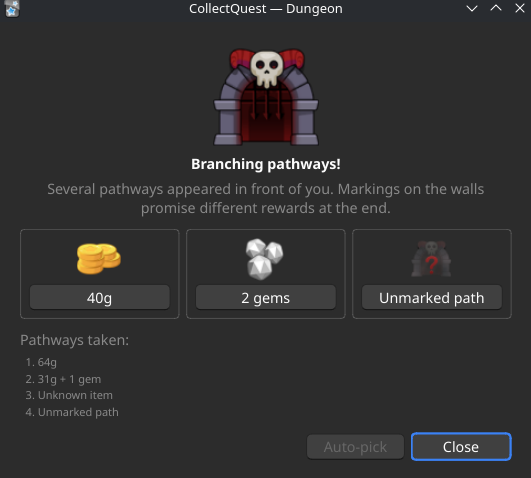
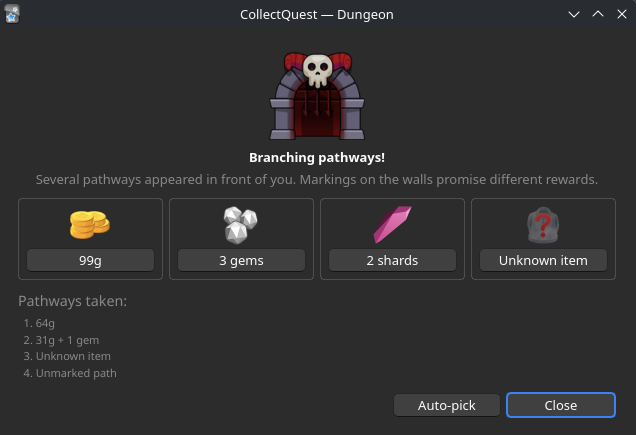
Change Dungeon window layout when no dungeon is active, update dungeon pathways screenshot

diff --git a/src/ui/dungeon.py b/src/ui/dungeon.py
@@ -9,9 +9,12 @@ from aqt.qt import (
     QCheckBox,
     QDialog,
     QHBoxLayout,
+    QImage,
     QLabel,
     QListWidget,
     QListWidgetItem,
+    QPainter,
+    QPixmap,
     QPushButton,
     QRadioButton,
     QTimer,
@@ -31,12 +34,18 @@ from .constants import (
     _MUTED_STAT_STYLE,
     _PATH_CELL_BORDER_DARK,
     _PATH_CELL_BORDER_LIGHT,
+    _SEPARATOR_COLOR,
 )
 
 # The window's own icon, at the size the milestones window heads itself with. dungeon.png is
 # 82x78 and would be upscaled here; this one has the headroom.
 _HEADER_ICON = "ui/dungeon_window.png"
 _HEADER_ICON_PX = 96
+# Between dungeons the header icon is drawn gray at this opacity, so it can't pass for an open one.
+_DORMANT_ICON_OPACITY = 0.55
+# Around the line that sets the last dungeon's result apart from the search.
+_DIVIDER_LEAD = 12
+_DIVIDER_TRAIL = 4
 _TREASURE_ICON = "dungeon/treasure_chest.png"
 _SCRAMBLER_ICON = "dungeon/gem_scrambler.png"
 _PATH_ICON_PX = 40
@@ -154,10 +163,34 @@ def _muted(text: str, center: bool = False, wrap: bool = True) -> QLabel:
     return lbl
 
 
-def _centered_icon(image: str, size: int = _HEADER_ICON_PX) -> QLabel | None:
+def _dormant(pm: QPixmap) -> QPixmap:
+    """`pm` drained of color and dimmed, its transparency kept."""
+    src = pm.toImage().convertToFormat(QImage.Format.Format_ARGB32)
+    gray = src.convertToFormat(QImage.Format.Format_Grayscale8).convertToFormat(
+        QImage.Format.Format_ARGB32
+    )
+    gray.setAlphaChannel(src.convertToFormat(QImage.Format.Format_Alpha8))
+    out = QPixmap(pm.size())
+    out.setDevicePixelRatio(pm.devicePixelRatio())
+    out.fill(Qt.GlobalColor.transparent)
+    painter = QPainter(out)
+    try:
+        painter.setOpacity(_DORMANT_ICON_OPACITY)
+        painter.drawImage(0, 0, gray)
+    finally:
+        painter.end()
+    return out
+
+
+def _centered_icon(image: str, size: int = _HEADER_ICON_PX, dormant: bool = False) -> QLabel | None:
     pm = _icon_pixmap(image, size, content=size)
     if not pm:
         return None
+    if dormant:
+        try:
+            pm = _dormant(pm)
+        except Exception:
+            pass  # the colored icon beats no window, as _icon_pixmap degrades too
     lbl = QLabel()
     lbl.setPixmap(pm)
     lbl.setAlignment(Qt.AlignmentFlag.AlignCenter)
@@ -498,9 +531,10 @@ def _add_pick_log(layout: QVBoxLayout, data: dict[str, Any]) -> None:
 
 
 def _add_idle(layout: QVBoxLayout, data: dict[str, Any]) -> None:
-    """No dungeon open: the last one's result, or the search a player who has none is still on."""
+    """No dungeon open: the search for the next entrance, then the last dungeon's result beneath a
+    divider, so it can't be read as a dungeon still underway."""
     last = data.get("last_dungeon")
-    icon = _centered_icon(_HEADER_ICON)
+    icon = _centered_icon(_HEADER_ICON, dormant=True)
     if icon:
         layout.addWidget(icon)
     # Answers spent searching, and what they have bought. Only counted above level 15, so the
@@ -508,7 +542,7 @@ def _add_idle(layout: QVBoxLayout, data: dict[str, Any]) -> None:
     searched = dungeon_mod.search_reviews(data)
     has_last = isinstance(last, dict)
     if has_last:
-        layout.addWidget(_title("Last dungeon"))
+        layout.addWidget(_title("Review more cards to find the next dungeon."))
         text = f"{_cards(searched)} answered since completing the last dungeon."
     else:
         layout.addWidget(_title("No dungeon discovered yet."))
@@ -521,9 +555,17 @@ def _add_idle(layout: QVBoxLayout, data: dict[str, Any]) -> None:
     )
     if not has_last:
         return
-    # The loot is its own group, and the bonus block above it is lifted off the line before it:
-    # without the same lift here the loot line reads as one more row of that block.
-    layout.addSpacing(_BLOCK_LEAD)
+    layout.addSpacing(_DIVIDER_LEAD)
+    divider = QFrame()
+    divider.setFrameShape(QFrame.Shape.HLine)
+    divider.setFixedHeight(1)
+    # Pinned, since the default shading is a hard line in dark mode.
+    divider.setStyleSheet(f"QFrame {{ border: none; background-color: {_SEPARATOR_COLOR}; }}")
+    layout.addWidget(divider)
+    layout.addSpacing(_DIVIDER_TRAIL)
+    heading = QLabel("Last dungeon")
+    heading.setStyleSheet("font-weight: bold;")
+    layout.addWidget(heading)
     item_quality = int(last.get("item_quality") or 0)
     _add_loot(
         layout, int(last.get("gold") or 0), int(last.get("gems") or 0), last.get("item"),

diff --git a/tests/dungeon/test_dungeon_ui.py b/tests/dungeon/test_dungeon_ui.py
@@ -133,6 +133,10 @@ use(fresh(last_dungeon={"branchings": 4, "gold": 180, "gems": 3, "item": "mushro
 _, texts = build("idle, last dungeon", lambda l: ui_dungeon.build_dungeon_content(l, noop))
 if not any("Mushroom" in t for t in texts):
     FAILS.append("last dungeon does not name its item")
+# The search leads; the finished dungeon sits under its own heading below it.
+lead, last = "Review more cards to find the next dungeon.", "Last dungeon"
+if lead not in texts or last not in texts or texts.index(lead) > texts.index(last):
+    FAILS.append("idle window does not lead with the search")
 
 d = fresh()
 d["dungeon"] = dungeon._new_dungeon()
@@ -270,7 +274,20 @@ for label, state, want in (
     # The header is the first pixmap in the layout, above everything else the state draws.
     pixmaps = [x for x in holder.findChildren(QtWidgets.QLabel) if x.pixmap() and not x.pixmap().isNull()]
     expected = assets._icon_pixmap(want, ui_dungeon._HEADER_ICON_PX, content=ui_dungeon._HEADER_ICON_PX)
-    ok = bool(pixmaps) and pixmaps[0].pixmap().toImage() == expected.toImage()
+    if label == "idle":
+        # Between dungeons the archway is drawn gray and dimmed, so it can't pass for an open one.
+        img = pixmaps[0].pixmap().toImage() if pixmaps else None
+        colored = expected.toImage()
+        seen = [
+            (img.pixelColor(x, y), colored.pixelColor(x, y))
+            for y in range(img.height()) for x in range(img.width())
+            if colored.pixelColor(x, y).alpha() == 255
+        ] if img is not None and img.size() == colored.size() else []
+        ok = bool(seen) and all(
+            c.red() == c.green() == c.blue() and c.alpha() < 255 for c, _ in seen
+        ) and any(o.red() != o.blue() for _, o in seen)
+    else:
+        ok = bool(pixmaps) and pixmaps[0].pixmap().toImage() == expected.toImage()
     print(f"  {'ok  ' if ok else 'FAIL'} {label}: heads with {want}")
     if not ok:
         FAILS.append(f"header icon missing in the {label} state")

diff --git a/src/ui/progress.py b/src/ui/progress.py
@@ -16,7 +16,7 @@ from aqt.qt import (
 from .. import due_baseline, dungeon as dungeon_mod, milestones, prestige as prestige_mod, quests, review_rewards, shop as shop_mod, stats as stats_mod, storage, streak as streak_mod, xp
 from .options import show_options_dialog
 from .assets import _house_pixmap, equalize_button_widths, section_header, house_image_count, house_index_for_level, next_house_goal_level
-from .constants import _COLLECTQUEST_PANEL_WIDTH, _DIALOG_BUTTON_MIN_WIDTH, _DIALOG_CONTENT_MARGINS, _MARK_ACTIVE_IMAGE, _MUTED_STAT_STYLE, _POPUP_PROGRESS_DIALOG_WIDTH, _QUEST_BONUS_SEPARATOR_TOP_PAD, _QUEST_BONUS_SEPARATOR_WIDTH
+from .constants import _COLLECTQUEST_PANEL_WIDTH, _DIALOG_BUTTON_MIN_WIDTH, _DIALOG_CONTENT_MARGINS, _MARK_ACTIVE_IMAGE, _MUTED_STAT_STYLE, _POPUP_PROGRESS_DIALOG_WIDTH, _QUEST_BONUS_SEPARATOR_TOP_PAD, _QUEST_BONUS_SEPARATOR_WIDTH, _SEPARATOR_COLOR
 from .items import add_stats_rows
 from .prestige import show_prestige_dialog
 from .statusbar import _streak_display_filled, _streak_squares_widget
@@ -533,8 +533,8 @@ def _add_cleared_bonus_row(container_layout, container: QWidget, data: dict, own
     bonus_sep.setFixedHeight(1)
     # Color pinned, since the default shading is a hard dark line in dark mode; indented like the rows.
     bonus_sep.setStyleSheet(
-        "QFrame { border: none; background-color: rgba(128,128,128,0.35); margin-left: %dpx; }"
-        % container.fontMetrics().horizontalAdvance("  ")
+        "QFrame { border: none; background-color: %s; margin-left: %dpx; }"
+        % (_SEPARATOR_COLOR, container.fontMetrics().horizontalAdvance("  "))
     )
     # Maximum, not fixed, so the dock can still narrow.
     bonus_sep.setMaximumWidth(_QUEST_BONUS_SEPARATOR_WIDTH)

diff --git a/src/ui/constants.py b/src/ui/constants.py
@@ -25,6 +25,9 @@ _STREAK_EMPTY_COLOR = "#5c5c5c"
 
 _STREAK_GAP = 8  # space between the streak squares and the centered group
 
+# Thin divider lines, readable on both themes.
+_SEPARATOR_COLOR = "rgba(128,128,128,0.35)"
+
 _QUEST_BONUS_SEPARATOR_WIDTH = 180
 
 _QUEST_BONUS_SEPARATOR_TOP_PAD = 2
